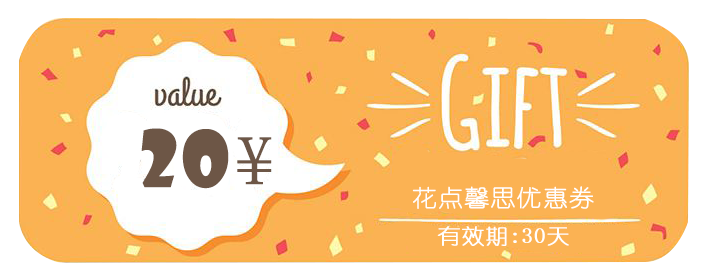
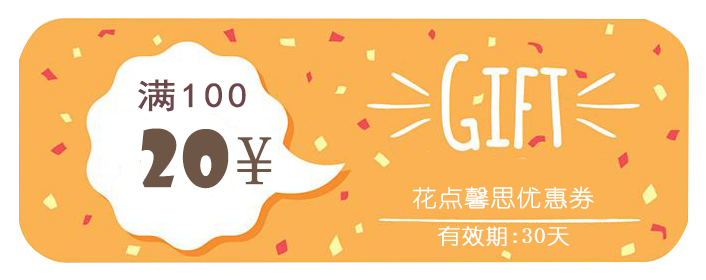
add company coupon module

Changed region(s): [[0.187, 0.2571, 0.3739, 0.4]]

diff --git a/lovgarden/Application/Api/Controller/CouponController.class.php b/lovgarden/Application/Api/Controller/CouponController.class.php
@@ -6,7 +6,7 @@ class CouponController extends RestController {
    //获取当前可用的优惠券
    public function getAvailableCoupons($coupon_id = 0) {
       $nowday = date("Y-m-d H:i:s");
-      $sql = "select * from lovgarden_coupon where deadline >"."'".$nowday."'";
+      $sql = "select * from lovgarden_coupon where type = '1' and deadline >"."'".$nowday."'";
       $model = new \Think\Model();
       $data = $model->query($sql);
       echo json_encode(array(
@@ -177,5 +177,66 @@ class CouponController extends RestController {
              }
           }   
        }   
+   }
+   public function userTakeCompanyCoupon($login_ip= '0',$telephone=0,$company_name='',$company_code='') {
+       //1验证用户是否登录
+       $login_status = 404; //404 没有登录, 200登录状态
+       $open_id = '0'; //0 表示没有
+       $user_coupon_insert = array(); //0 原始状态 1 给用户新增了优惠券 2 该优惠券用户已经有了 3该优惠券已经达到最大领取上限
+       $user_condition = 0; //0 原始状态 1 条件满足  2条件不满足
+       $user_telephone = $telephone;
+       $coupon_exist = 0; //0 不存在 1 存在
+       $company_name = I('get.company_name');
+       $company_code = I('get.company_code');
+       //检查是否登录
+       if($login_ip!='0' && $user_telephone != 0){
+           $mem_cache = new Memcache();
+           $login_exist = $mem_cache->get($login_ip);
+           if(!empty($login_exist)){
+               $open_id = $login_exist;
+               $login_status = 200;
+               //检查当前优惠券是否过期
+               $nowday = date("Y-m-d H:i:s");
+               $sql = "select id , coupon_id , coupon_number from lovgarden_coupon where type='2' and company_name = $company_name and company_code = $company_code and deadline >"."'".$nowday."'";
+               $model = new \Think\Model();
+               //$model->query('select * from user where id=%d and status=%d',$id,$status);
+               //$Model->query("SELECT * FROM think_user WHERE id=%d and username='%s' and xx='%f'",array($id,$username,$xx));
+               $data = $model->query($sql);
+               if(!empty($data)) {
+                  $coupon_exist = 1;
+                  foreach ($data as $key => $value) {
+                      $coupon_id = $value['coupon_id'];
+                      $coupon_number = $value['coupon_number'];
+                      if($coupon_number > 0) {
+                        $sql2 = "SELECT id FROM lovgarden_user_coupon WHERE open_id = '".$open_id."' and coupon_id = '".$coupon_id."'" ;
+                        $coupon_user_exist = $model->query($sql2);
+                        if(empty($coupon_user_exist)) {
+                         //说明该用户可以领取这个优惠券,需要插入数据
+                           $sql_insert = "INSERT INTO lovgarden_user_coupon (coupon_id,user_telephone,open_id) VALUES ('$coupon_id','$telephone','$open_id')";
+                           $data_insert = $model->execute($sql_insert);
+                           if(data_insert) {
+                               $user_coupon_insert[] = array('coupon_id' => $coupon_id,'user_coupon_insert'=>'1');
+                           }
+                        }
+                        else {
+                             //说明该用户已经有了该优惠券,不需要插入数据
+                              $user_coupon_insert[] = array('coupon_id' => $coupon_id,'user_coupon_insert'=>'2');
+                        }
+                      }
+                      else {
+                          $user_coupon_insert[] = array('coupon_id' => $coupon_id,'user_coupon_insert'=>'3');
+                      }
+                  }
+               }
+           }
+       }
+    
+       echo json_encode(array(
+          'login_status' => $login_status,
+          'user_coupon_insert' => $user_coupon_insert,
+          'coupon_exist' => $coupon_exist,
+          'user_telephone' => $user_telephone
+       ),JSON_UNESCAPED_SLASHES|JSON_UNESCAPED_UNICODE);
+       
    }
 }
